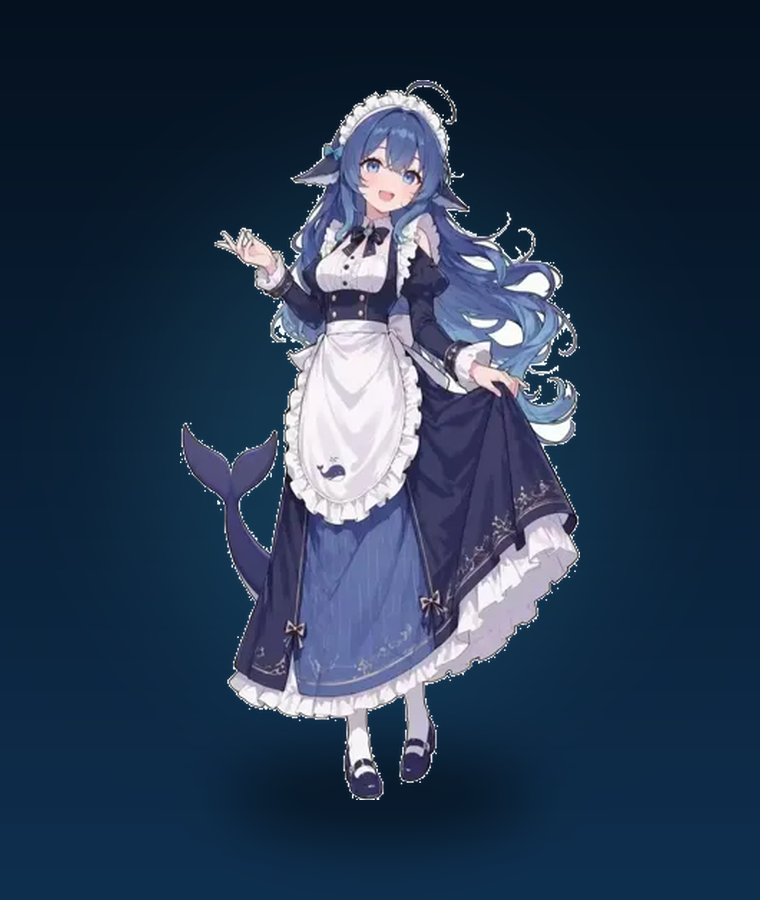
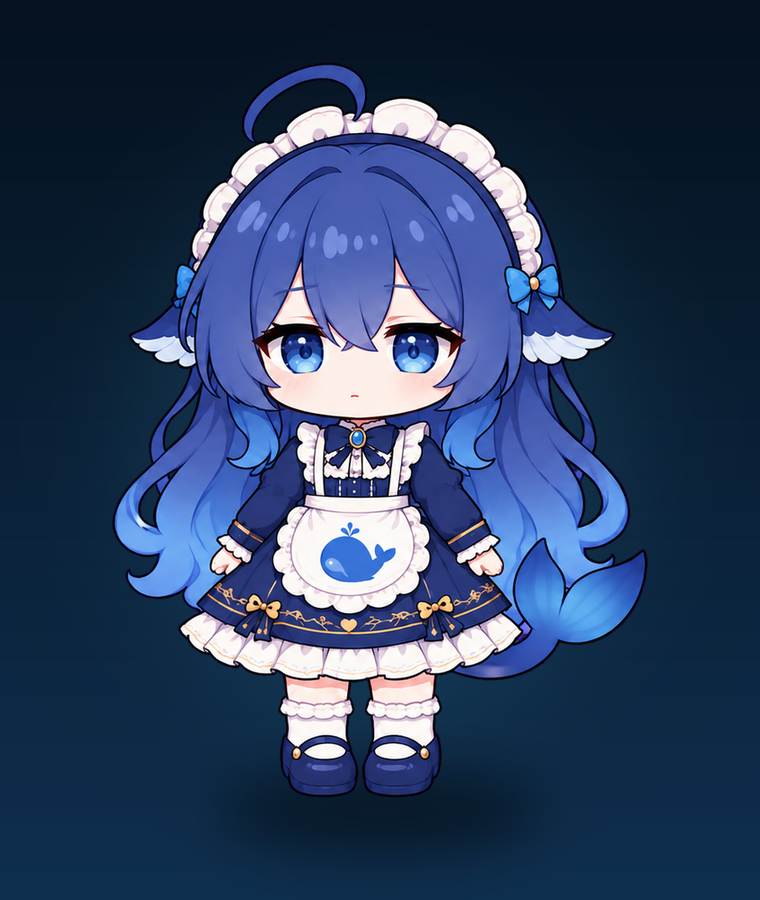
docs: 控制台改用网上开源的鲸鱼娘形象

diff --git a/docs/ui-mockup.html b/docs/ui-mockup.html
@@ -837,6 +837,7 @@ https://www.douyin.com/video/7702…</div><div class="meta"><span>13:20:08</span
             <div class="kv"><span>版本</span><b class="mono">v0.1 · 13a4c48</b></div>
             <div class="kv"><span>运行时长</span><b>3 小时 12 分</b></div>
             <div class="kv"><span>Python</span><b class="mono">3.12 · H:\deepseek-chat\tools\python</b></div>
+            <div class="kv"><span>形象</span><b>YunYueSama · 大肥鱼项目署名许可 1.0</b></div>
           </div>
         </div>
       </section>

diff --git a/tests/test_ui_docs.py b/tests/test_ui_docs.py
@@ -29,3 +29,4 @@ def test_design_doc_has_the_important_sections():
         assert heading in text
     assert "ui-mockup.html" in text
     assert "127.0.0.1" in text
+    assert "YunYueSama" in text and "署名许可" in text

diff --git a/docs/assets/dafeiyu-LICENSE.md b/docs/assets/dafeiyu-LICENSE.md
@@ -1,0 +1,34 @@
+大肥鱼项目署名许可 1.0（自定义许可，非标准 MIT）
+
+Copyright (c) 2026 YunYueSama
+作者：YunYueSama
+仓库：https://github.com/YunYueSama/codex-deepseek-pet
+
+1. 适用范围
+
+本许可适用于本仓库中由项目作者拥有或有权授予许可的所有材料，包括源代码、文档、角色设定、图片、设计图、动画与其他资源（以下称“材料”）。第三方材料及另有许可声明的部分不在本授权范围内，详见 ASSET_LICENSE.md。
+
+2. 授予的权利
+
+在遵守以下条件的前提下，任何人均可免费使用、复制、修改、合并、展示、发布、分发、再许可及出售材料或其衍生作品，包括用于商业目的，无需另行向项目作者申请许可。修改后的作品无需公开源代码。
+
+3. 必须保留的署名
+
+使用、展示、发布或分发材料或其衍生作品时，必须清楚标明以下两项：
+
+作者：YunYueSama
+仓库：https://github.com/YunYueSama/codex-deepseek-pet
+
+署名可以放在作品的 README、关于页面、致谢、随附说明或图片/视频发布说明等使用者或接收者容易找到的位置；无需在角色画面上添加水印。私人使用时，保留随附的署名与许可文件即可。署名不得仅写“来源网络”或只列作者而省略仓库地址。
+
+分发材料或其实质性部分时，须同时保留本版权声明及完整许可文本。修改后的作品须说明经过修改，不得将修改内容冒称为原作者作品。再许可不得取消原材料的上述署名和许可保留义务；不得暗示原作者或 DeepSeek 官方认可或代言衍生作品。
+
+4. 第三方权利与旧版本
+
+本许可不授予第三方参考作品、字体、依赖、商标或其他第三方内容的额外权利。此类内容仍遵守各自的授权；对衍生素材的授权仅及于作者有权授权的贡献，不替代底层参考作品可能需要的许可。使用 AI 生成或处理素材不扩大授权范围。
+
+此前已按 MIT 或其他许可发布的版本，其已授予的权利不因本许可变更而撤销；请以取得的相应版本所附许可为准。
+
+5. 免责声明
+
+材料按“现状”提供，不作任何明示或默示保证，包括适销性、特定用途适用性或不侵权的保证。在适用法律允许的范围内，作者或版权持有人不对因使用材料或与材料有关的行为所产生的任何索赔、损害或其他责任负责。

diff --git a/docs/ui-design.md b/docs/ui-design.md
@@ -157,7 +157,7 @@ QQ 与连接
 
 ### 大肥鱼形象
 
-- 正式版用表情包库里的女仆装形象（蓝鲸娘：深蓝长发、鲸鱼鳍耳、女仆发箍、大尾巴）；原型已把 `data/stickers/嘲讽/49da8a0f0c80.png` 去白底后放在 `docs/assets/dafeiyu.png`，控制台只负责位置、尺寸、状态，不把形象写死在代码里。
+- 正式版用网上开源的「大肥鱼／鲸鱼娘」设定：来自 [`YunYueSama/codex-deepseek-pet`](https://github.com/YunYueSama/codex-deepseek-pet) 的 `assets/whale/portrait.png`（透明 PNG，599×820），裁掉透明边距后放在 `docs/assets/dafeiyu.png`。形象上游参考了上善无形、ZipZipPipe 的设定；按仓库《大肥鱼项目署名许可 1.0》署名、非官方授权，控制台只负责位置、尺寸、状态，不把形象写死在代码里。
 
 ![大肥鱼形象](ui-mascot.png)
 
@@ -391,7 +391,14 @@ QQ 与连接
 
 ---
 
-## 10. 验收清单
+## 10. 素材署名
+
+- 大肥鱼形象：作者 **YunYueSama**，仓库 <https://github.com/YunYueSama/codex-deepseek-pet>，素材 `assets/whale/portrait.png`；适用《大肥鱼项目署名许可 1.0》，允许修改与分享，须保留作者与仓库地址。完整许可与修改说明见 [`docs/assets/dafeiyu-LICENSE.md`](assets/dafeiyu-LICENSE.md)、[`docs/assets/NOTICE.md`](assets/NOTICE.md)。
+- 本项目的修改：裁掉透明边距、按 UI 尺寸缩放；未改画角色。
+- 上游参考：上善无形（鲸鱼娘原始形象）、ZipZipPipe（DeepSeek 女仆鲸鱼娘二次设计）；本项目不声称 DeepSeek 官方授权。
+- 署名会同时放在控制台「设置 → 关于」里，不只写在文档。
+
+## 11. 验收清单
 
 - [ ] 首次配置 5 分钟内完成，三步都有“测试通过”反馈。
 - [ ] 总览数据与 `/mood`、日志、`audit` 一致。

diff --git a/docs/assets/NOTICE.md b/docs/assets/NOTICE.md
@@ -1,0 +1,18 @@
+# 大肥鱼形象素材署名
+
+- 作者：**YunYueSama**
+- 仓库：https://github.com/YunYueSama/codex-deepseek-pet
+- 原文件：`assets/whale/portrait.png`
+- 许可：《大肥鱼项目署名许可 1.0》，完整文本见同目录 `dafeiyu-LICENSE.md`
+
+## 本项目的修改
+
+- 裁掉透明边距，只保留角色可见区域（599 × 820）。
+- 按控制台尺寸缩放；未改画角色、未改配色。
+
+## 上游参考
+
+- 上善无形：鲸鱼娘原始角色形象。
+- ZipZipPipe：DeepSeek 元素与女仆鲸鱼娘二次设计。
+
+本项目不声称 DeepSeek 官方授权；形象仅用于这个私人陪伴项目的本地控制台。
